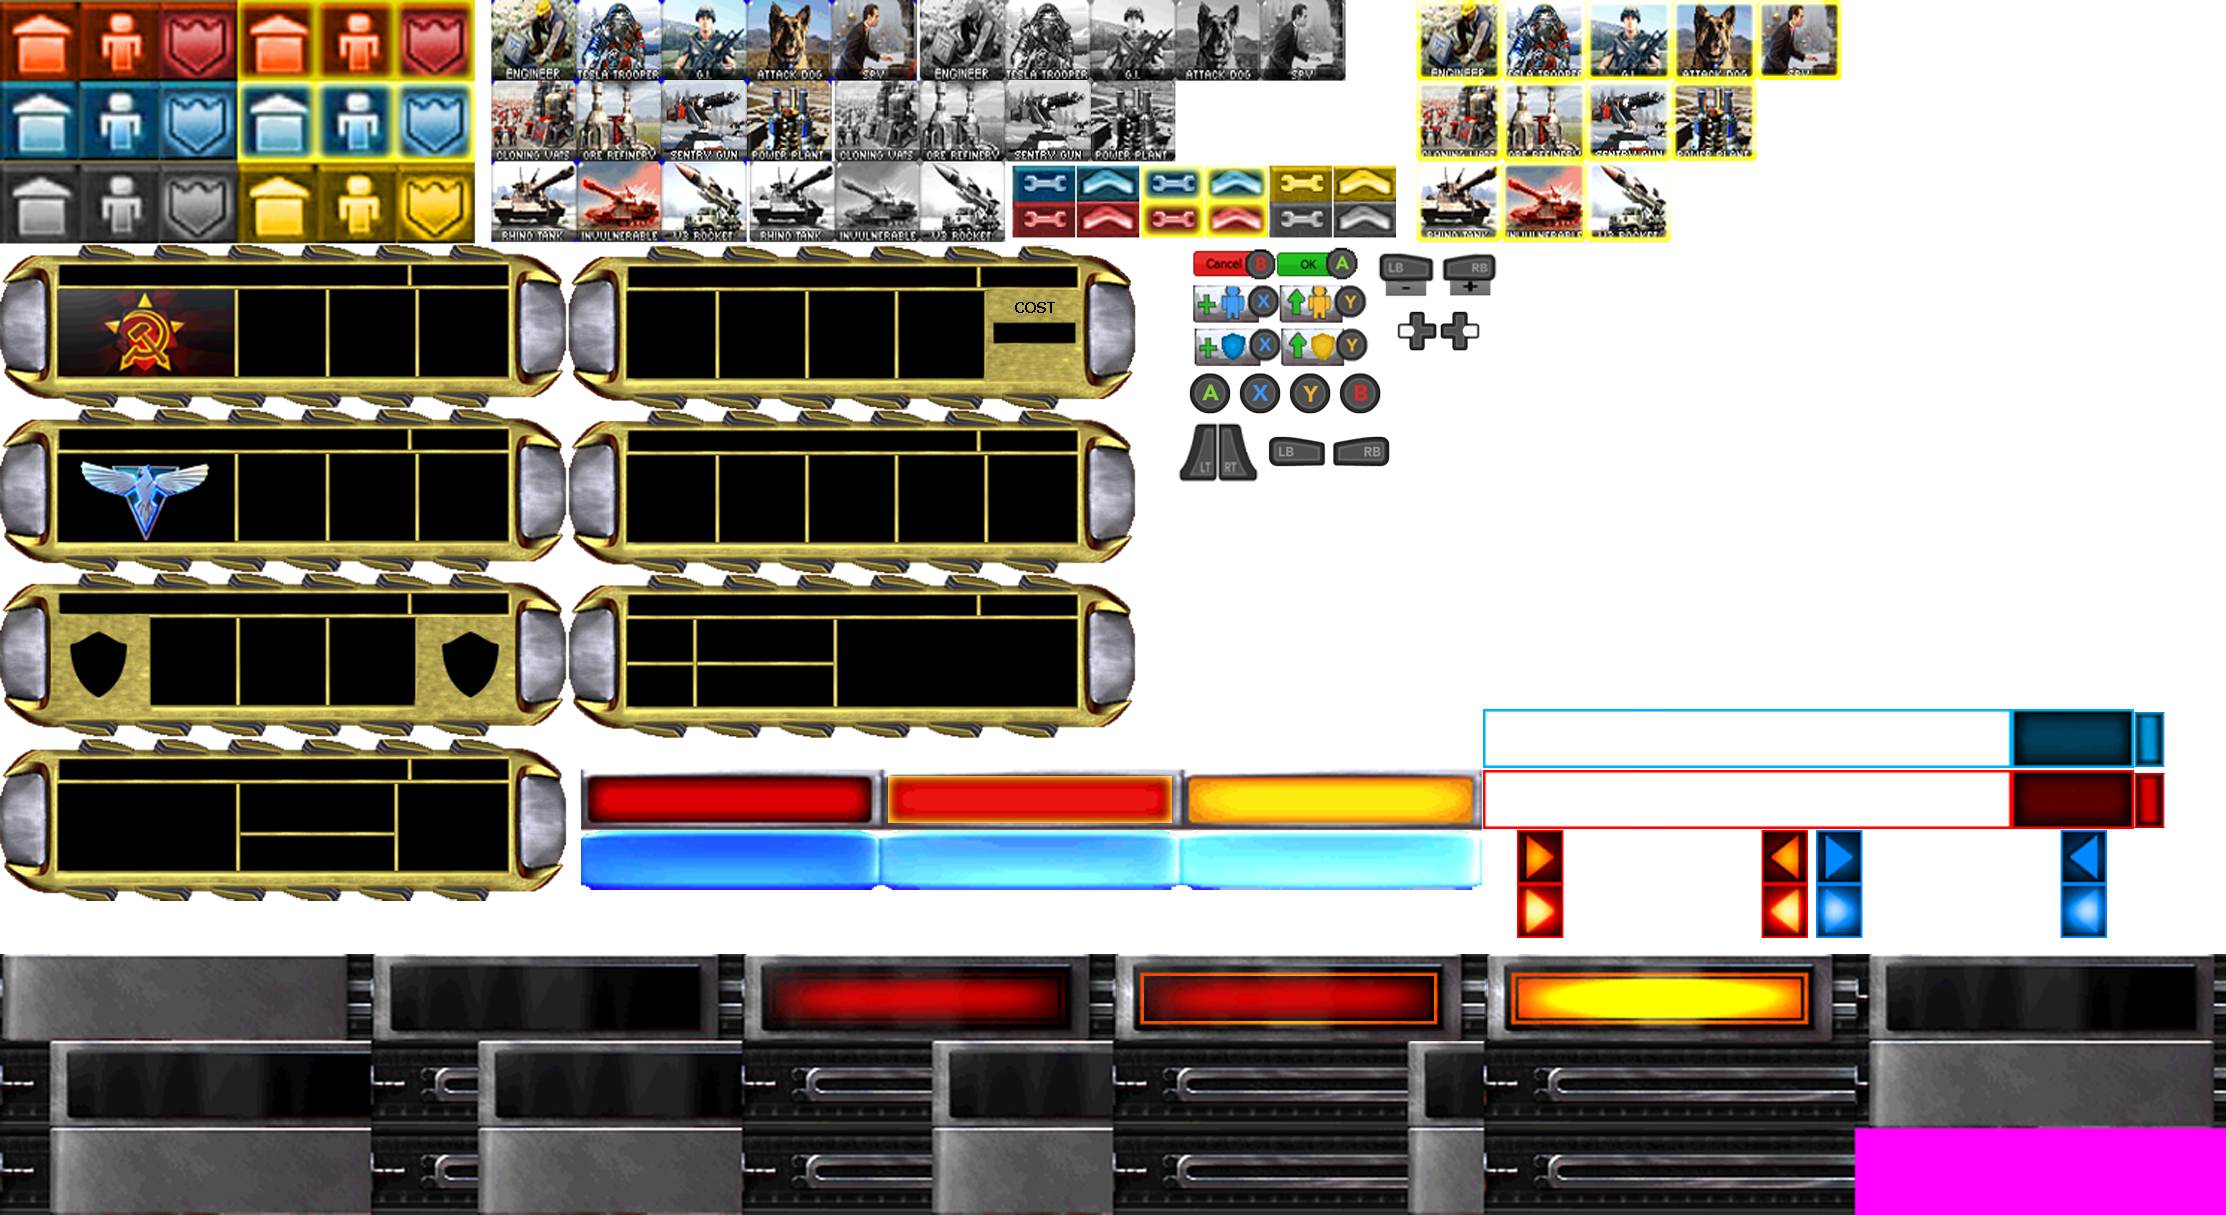
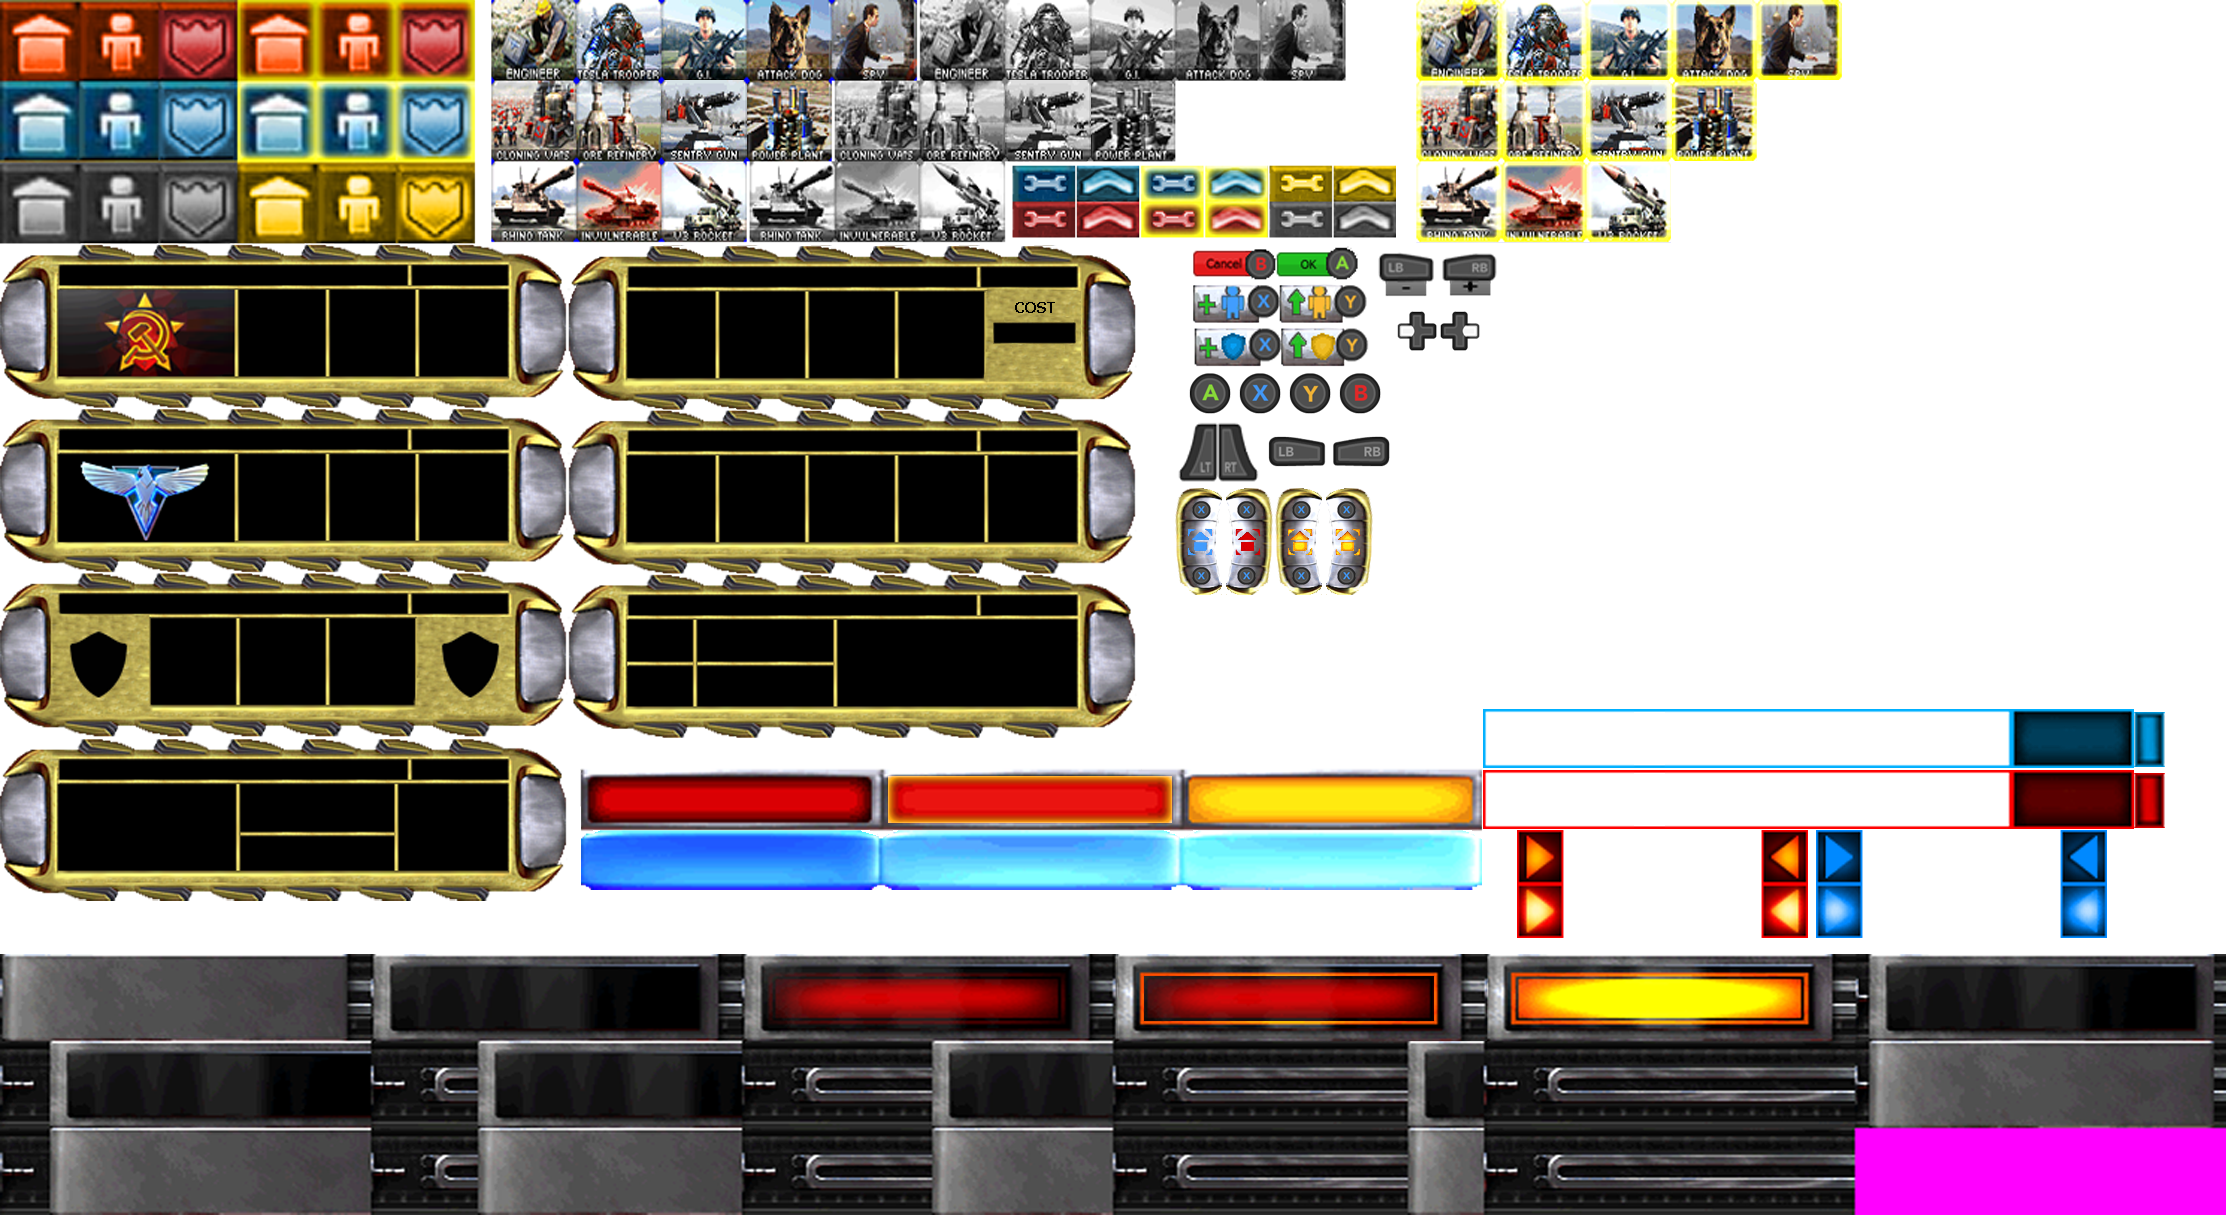
Select building UI

Changed region(s): [[0.527, 0.3959, 0.6199, 0.4872]]

diff --git a/Base/Motor2D/Scene.cpp b/Base/Motor2D/Scene.cpp
@@ -149,6 +149,12 @@ bool Scene::Start()
 	App->player1->Y_to_Main2 = App->gui->AddUIElement(true, UI_Element::UI_type::IMAGE, UI_Element::Action::NONE, { 590 , 70 }, { 39, 39 }, nullptr, true);
 	App->player1->Y_to_Main2->rect = { 1289, 373, 39, 39 };
 
+	App->player1->SelectBuilding = App->gui->AddUIElement(true, UI_Element::UI_type::IMAGE, UI_Element::Action::NONE, { 630 , 30 }, { 39, 39 }, nullptr, true);
+	App->player1->SelectBuilding->rect = { 1226, 488, 45, 107 };
+	App->player1->In_SelectBuilding = App->gui->AddUIElement(true, UI_Element::UI_type::IMAGE, UI_Element::Action::NONE, { 630 , 30 }, { 39, 39 }, nullptr, false);
+	App->player1->In_SelectBuilding->rect = { 1326, 488, 45, 107 };
+
+
 	App->player1->Build_UI = App->gui->AddUIElement(true, UI_Element::UI_type::WINDOW, UI_Element::Action::NONE, { 0,0 }, { 566, 163 }, nullptr, false);
 	App->player1->Build_UI->rect = { 569, 246, 566, 163 };
 	App->player1->Def_AOE_icon = App->gui->AddUIElement(true, UI_Element::UI_type::PUSHBUTTON, UI_Element::Action::ACT_BUILD_AOE, { 68, 55 }, { 85, 81 }, App->player1->Build_UI, false);
@@ -370,6 +376,12 @@ bool Scene::Start()
 	App->player2->Y_to_Main->rect = { 1289, 373, 39, 39 }; 
 	App->player2->Y_to_Main2 = App->gui->AddUIElement(false, UI_Element::UI_type::IMAGE, UI_Element::Action::NONE, { App->win->width + 445 , App->win->height + 192 }, { 39, 39 }, nullptr, false);
 	App->player2->Y_to_Main2->rect = { 1289, 373, 39, 39 };
+
+
+	App->player2->SelectBuilding = App->gui->AddUIElement(false, UI_Element::UI_type::IMAGE, UI_Element::Action::NONE, { App->win->width - 190 ,App->win->height + 152 }, { 39, 39 }, nullptr, true);
+	App->player2->SelectBuilding->rect = { 1177, 488, 45, 107 };
+	App->player2->In_SelectBuilding = App->gui->AddUIElement(false, UI_Element::UI_type::IMAGE, UI_Element::Action::NONE, { App->win->width - 191 ,App->win->height + 152 }, { 39, 39 }, nullptr, false);
+	App->player2->In_SelectBuilding->rect = { 1276, 488, 45, 107 };
 
 	App->player2->Build_UI = App->gui->AddUIElement(false, UI_Element::UI_type::WINDOW, UI_Element::Action::NONE, { App->win->width - 145 ,App->win->height + 123 }, { 566, 163 }, nullptr, false);
 	App->player2->Build_UI->rect = { 569, 246, 566, 163 };

diff --git a/Base/Motor2D/Player.cpp b/Base/Motor2D/Player.cpp
@@ -101,6 +101,10 @@ bool Player::Update(float dt)
 		if (currentUI == CURRENT_UI::CURR_SELECTING_BUILDING)
 		{
 
+			if (In_SelectBuilding->visible == false)
+				In_SelectBuilding->visible = true;
+			
+
 			selected_texture.x = (*building_selected)->position.first;
 			selected_texture.y = (*building_selected)->position.second;
 			selected_texture.w = ((*building_selected)->Current_Animation->GetCurrentFrame(dt).w);
@@ -109,6 +113,11 @@ bool Player::Update(float dt)
 				App->render->DrawQuad(selected_texture, 255, 0,0, 100, true);
 			else
 				App->render->DrawQuad(selected_texture, 0, 0, 255, 100, true);
+		}
+		else
+		{
+			if(In_SelectBuilding!=nullptr && In_SelectBuilding->visible == true )
+				In_SelectBuilding->visible = false;
 		}
 
 		
@@ -162,6 +171,7 @@ bool Player::Update(float dt)
 		{
 			currentUI = CURRENT_UI::CURR_CREATE_TROOPS;
 			UpdateVisibility();
+			UI_troop_type = Entity::entityType::SOLDIER;
 			//UpdateFocus(currentUI);
 		}
 
@@ -334,6 +344,10 @@ bool Player::Update(float dt)
 				Y_to_Main2->visible = true;
 				RB_img->visible = false;
 				LB_img->visible = false;
+
+				
+					
+				
 			}
 			else if (Y_pressed == true)
 			{
@@ -345,6 +359,11 @@ bool Player::Update(float dt)
 
 			if (currentUI != CURRENT_UI::CURR_GENERAL && Create_troops!=nullptr)
 				Create_troops->visible = false;
+
+			if(currentUI == NONE)
+				SelectBuilding->visible = true;
+			else
+				SelectBuilding->visible = false;
 		}
 
 

diff --git a/Base/Motor2D/Player.h b/Base/Motor2D/Player.h
@@ -153,9 +153,14 @@ public:
 
 	UI_Element* Y_to_Main = nullptr;
 	UI_Element* Y_to_Main2 = nullptr;
+	bool Y_pressed = false;
+
+	UI_Element* SelectBuilding = nullptr;
+	UI_Element* In_SelectBuilding = nullptr;
+
 	UI_Element* RB_img = nullptr;
 	UI_Element* LB_img = nullptr;
-	bool Y_pressed = false;
+	
 
 	UI_Element* Main_UI = nullptr;
 	UI_Element* Build_icon = nullptr;
